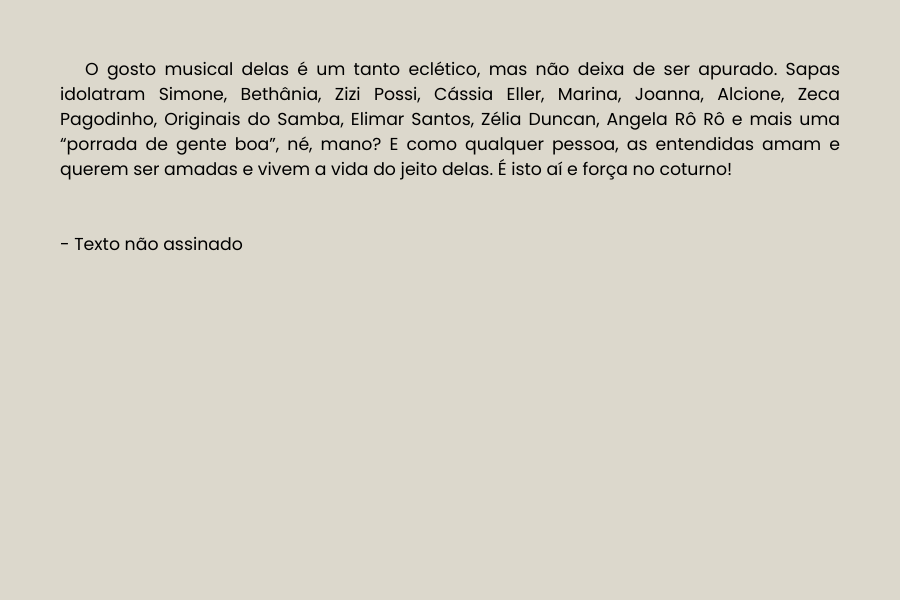
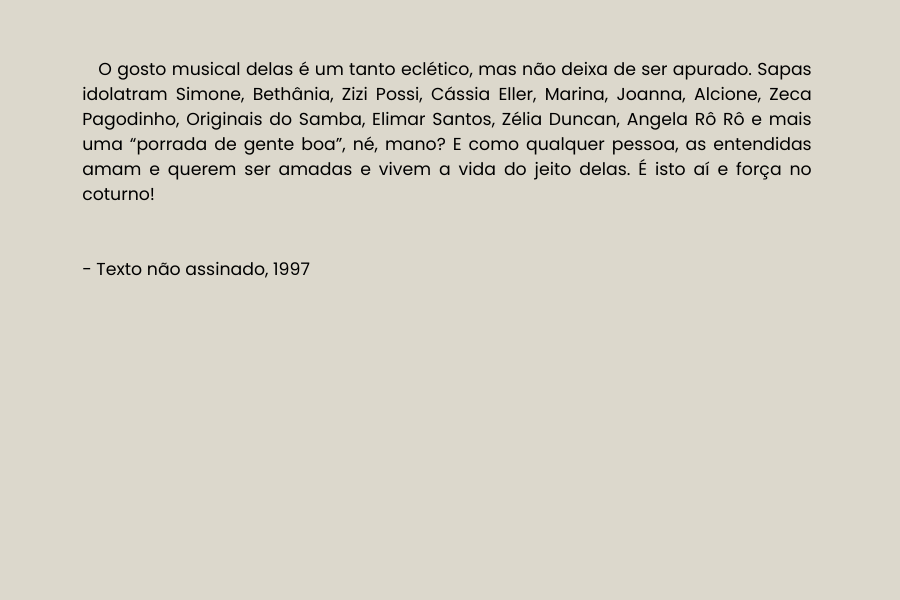
alteração no espáçãmento das letras cap 1 e alteração nas imagens galeria elas por elas

Changed region(s): [[0.0622, 0.09, 0.9333, 0.33], [0.0622, 0.39, 0.3422, 0.48]]

diff --git a/capitulo-5.html b/capitulo-5.html
@@ -111,7 +111,6 @@
                         <li></li>
                     </ul>
                 </div>
-                <spam class="legenda">Texto na íntegra, "As Caminhoneiras" (1997)</spam>
                 <p>
                     No entanto, nessa mesma edição, Maria Helena escreveu um texto em que destacava a pluralidade da comunidade lésbica e a luta dessas mulheres contra o preconceito. No texto intitulado <a class = "ancor-to-personal-page" href="https://drive.google.com/file/d/1CwZtQ1MoJ8FBdIu0qXLxNRAEv7QOtekB/view?usp=drive_link" target="_blank" rel="noopener noreferrer"></a>“Excluídas dos Excluídos”, ela dizia:  a “Como todo grupo, nós temos também o nosso arco-íris. Há mulheres homossexuais de toda forma, cor e personalidades (para todos os gostos)”. 
                 </p>
@@ -136,7 +135,6 @@
                         <li></li>
                     </ul>
                 </div>
-                <spam class="legenda">Texto na íntegra, Excluídas dos Excluídos (1997)</spam>
                 <p>
                     O texto de Lena foi um dos motivos para que os integrantes do Babado levassem o número para um bar frequentado predominantemente por mulheres lésbicas. O responsável por entregar os exemplares foi Paulo Mariante. Ele relembra que, quando as mulheres abriram o Babado e leram o artigo “As Caminhoneiras”, elas pediram para que ele saísse do estabelecimento.
                 </p>
@@ -145,6 +143,9 @@
                 </p>
                 <div class="slider4">
                     <div class="list4">
+                        <div class="item">
+                            <img src="./assets/slider-elas-por-elas/femme-fatale/capa.png" alt="img">
+                        </div>
                         <div class="item">
                             <img src="./assets/slider-elas-por-elas/femme-fatale/5.png" alt="img">
                         </div>
@@ -169,14 +170,12 @@
                         <li></li>
                         <li></li>
                         <li></li>
+                        <li></li>
                     </ul>
                 </div>
-                <spam class="legenda">Texto na íntegra, Femme Fatale (1998)</spam>
                 <p>
                     A redatora lutou ainda para que a capa desse número fosse estampada por duas lésbicas se beijando, algo inimaginável para a época. Com muita relutância, a ideia foi aceita, mas, no dia em que a edição seria impressa, parte dos homens da redação mudaram a capa, descumprindo o combinado. Como resultado, <a class = "ancor-to-personal-page" href="https://drive.google.com/drive/folders/1T_gleHx95AeCU9Sk8du6dBCHzc0aU20u?usp=sharing" target="_blank">o jornal estampava uma única mulher em destaque</a>, em pose compenetrada. O que deveria ter sido uma vitória para as mulheres trouxe mais desarmonia na equipe, levando à <a class = "ancor-to-personal-page" href="./capitulo-6.html" target="_blank" rel="noopener noreferrer">debandada de alguns integrantes, insatisfeitos com o periódico</a>.
                 </p>
-                <img class = "capa__mulher" src="./assets/slider-elas-por-elas/slider-2/img1.png" alt="img">
-                <spam  class="legenda">Capa edição Mês da Mulher (1998)</spam>
                 <iframe  id = "last" style="border-radius:12px" src="https://open.spotify.com/embed/episode/7MMBThtB2KTU0qkcsjMfjd?utm_source=generator&theme=0" width="500px" height="352" frameBorder="0" allowfullscreen="" allow="autoplay; clipboard-write; encrypted-media; fullscreen; picture-in-picture" loading="lazy"></iframe>
                 <div class="next-chapter">
                     <a class="teste">

diff --git a/css/capitulo-1.css b/css/capitulo-1.css
@@ -35,8 +35,8 @@
 /* ################################ CORPO ################################ */
 .card p {
     text-align: left;
-    letter-spacing: 2px;
-    line-height: 1.75rem;
+    letter-spacing: 0.5px;
+    line-height: 1.5rem;
     padding: 1rem 0.5rem 0.5rem 0.5rem;
     width: 70%;
     height: fit-content;
@@ -76,7 +76,7 @@
 }
 .content p {
     margin-top: 0.4rem;
-    margin-bottom: 0.8rem;
+    margin-bottom: 0.4rem;
 }
 /* ################################ FIM CORPO ################################ */
 

diff --git a/scripts.js b/scripts.js
@@ -159,7 +159,7 @@ next4.onclick = function (){
 }
 prev4.onclick = function (){
         if (active4 - 1 < 0){
-                active4 = 3;
+                active4 = 4;
         } else {
                 active4 = active4 - 1;
         }
